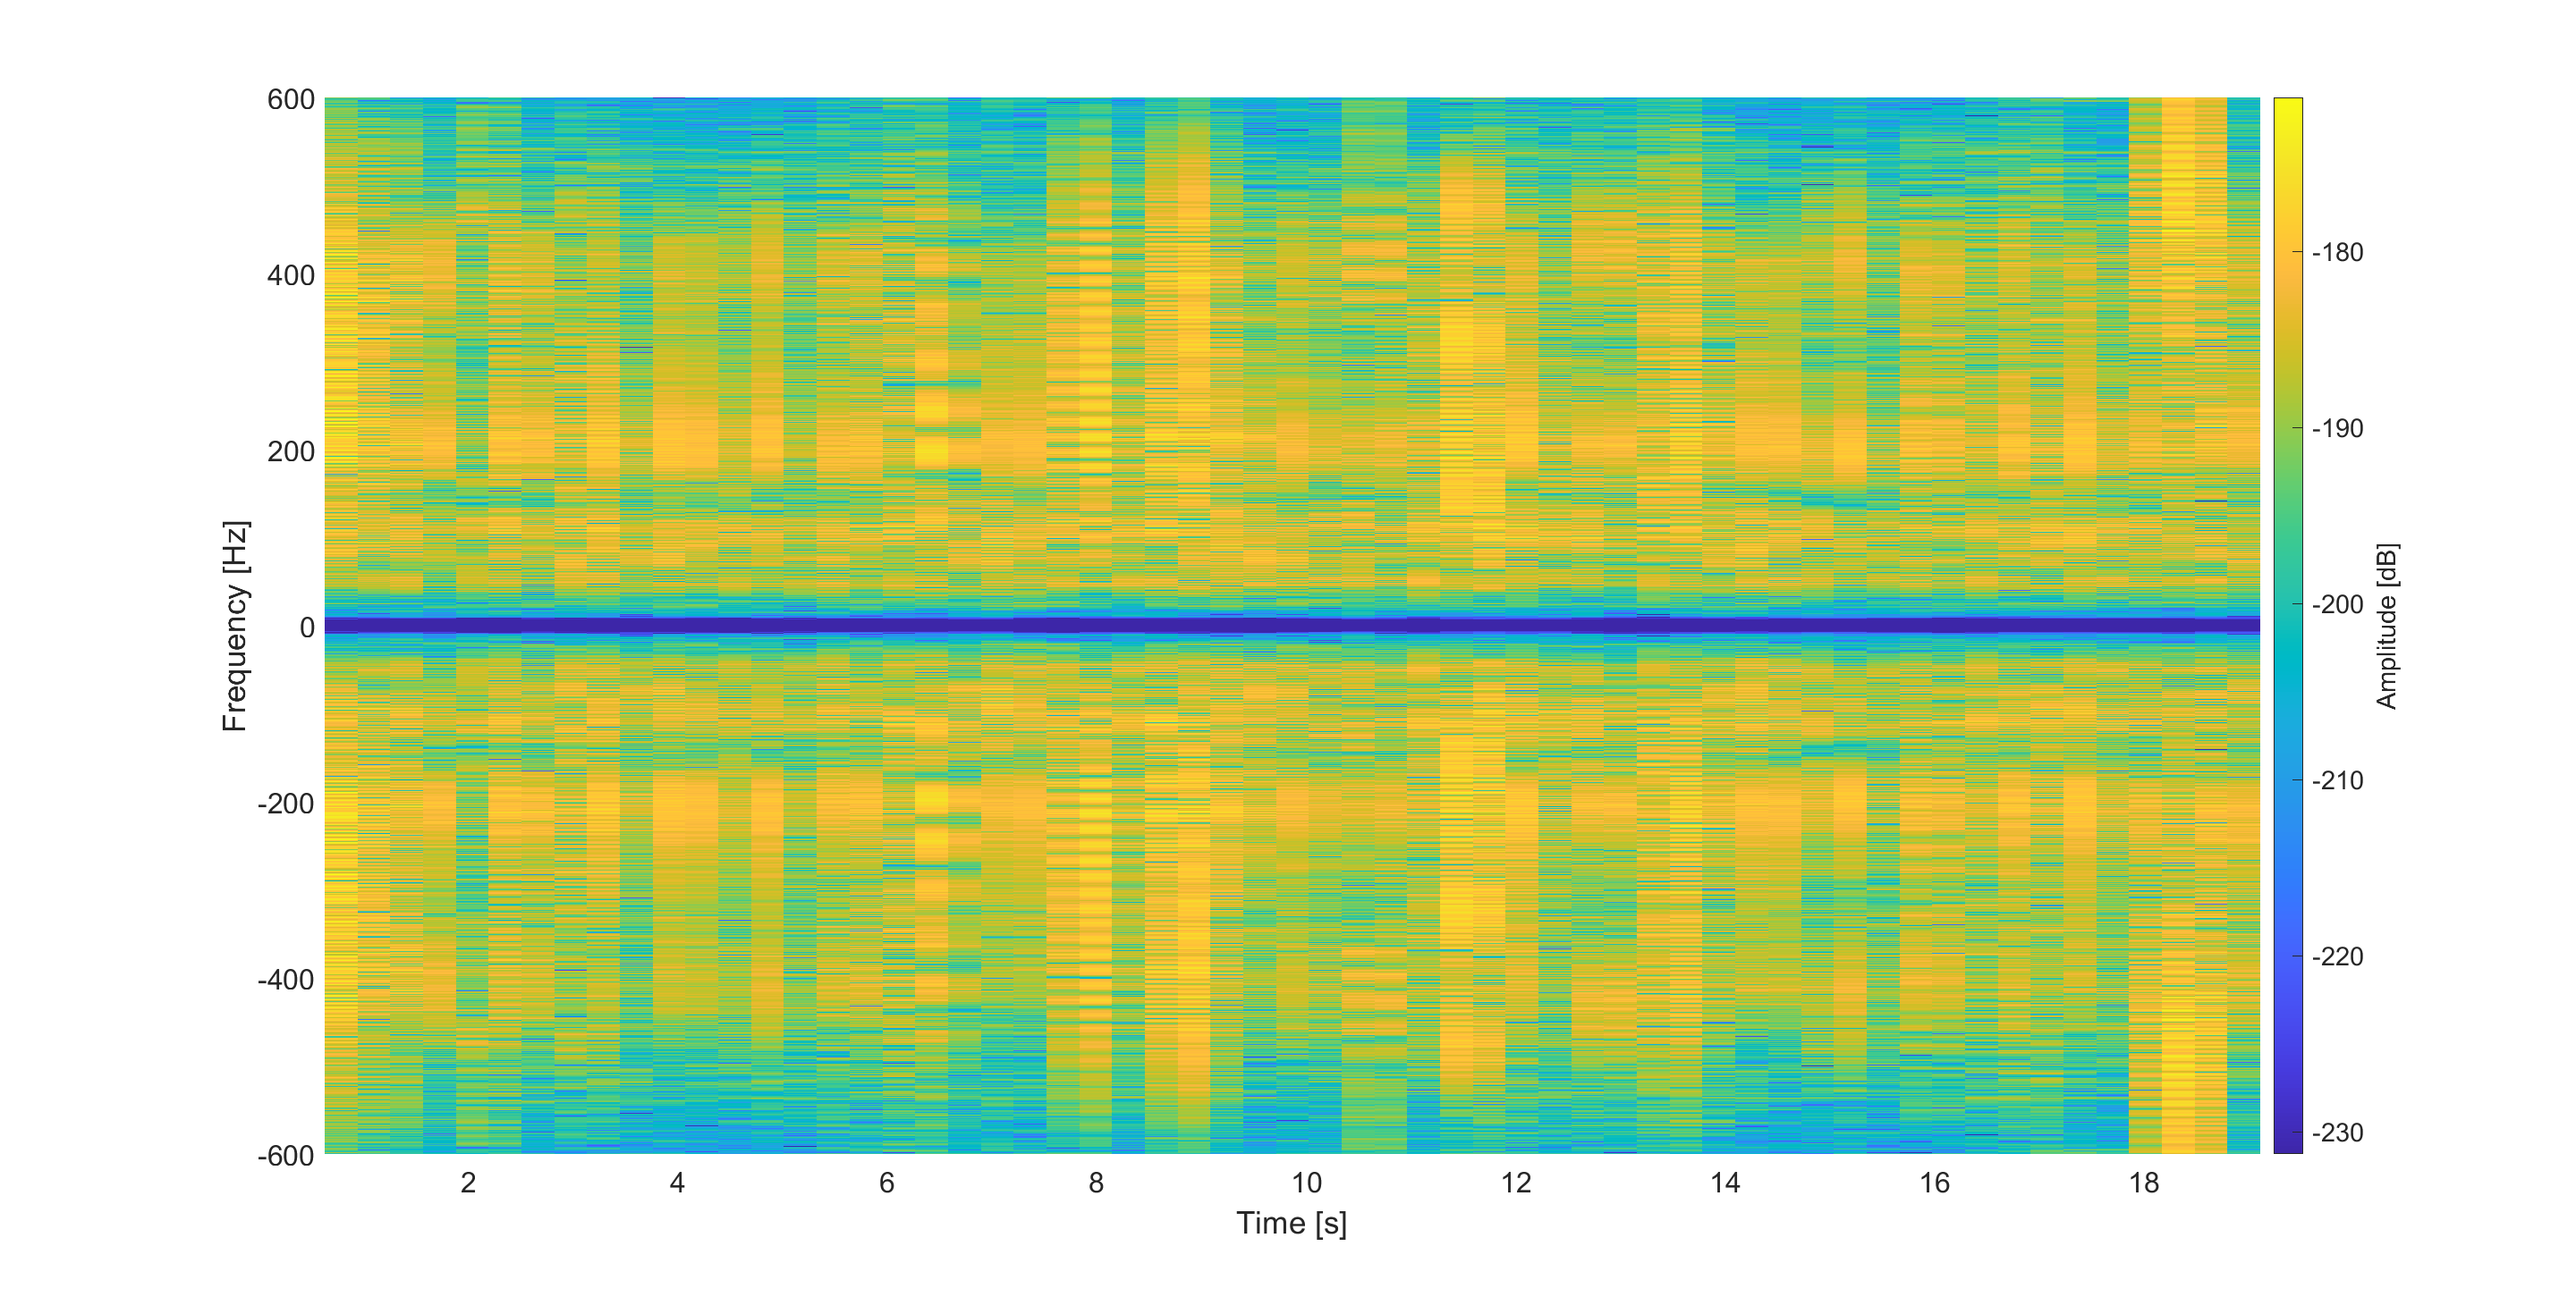
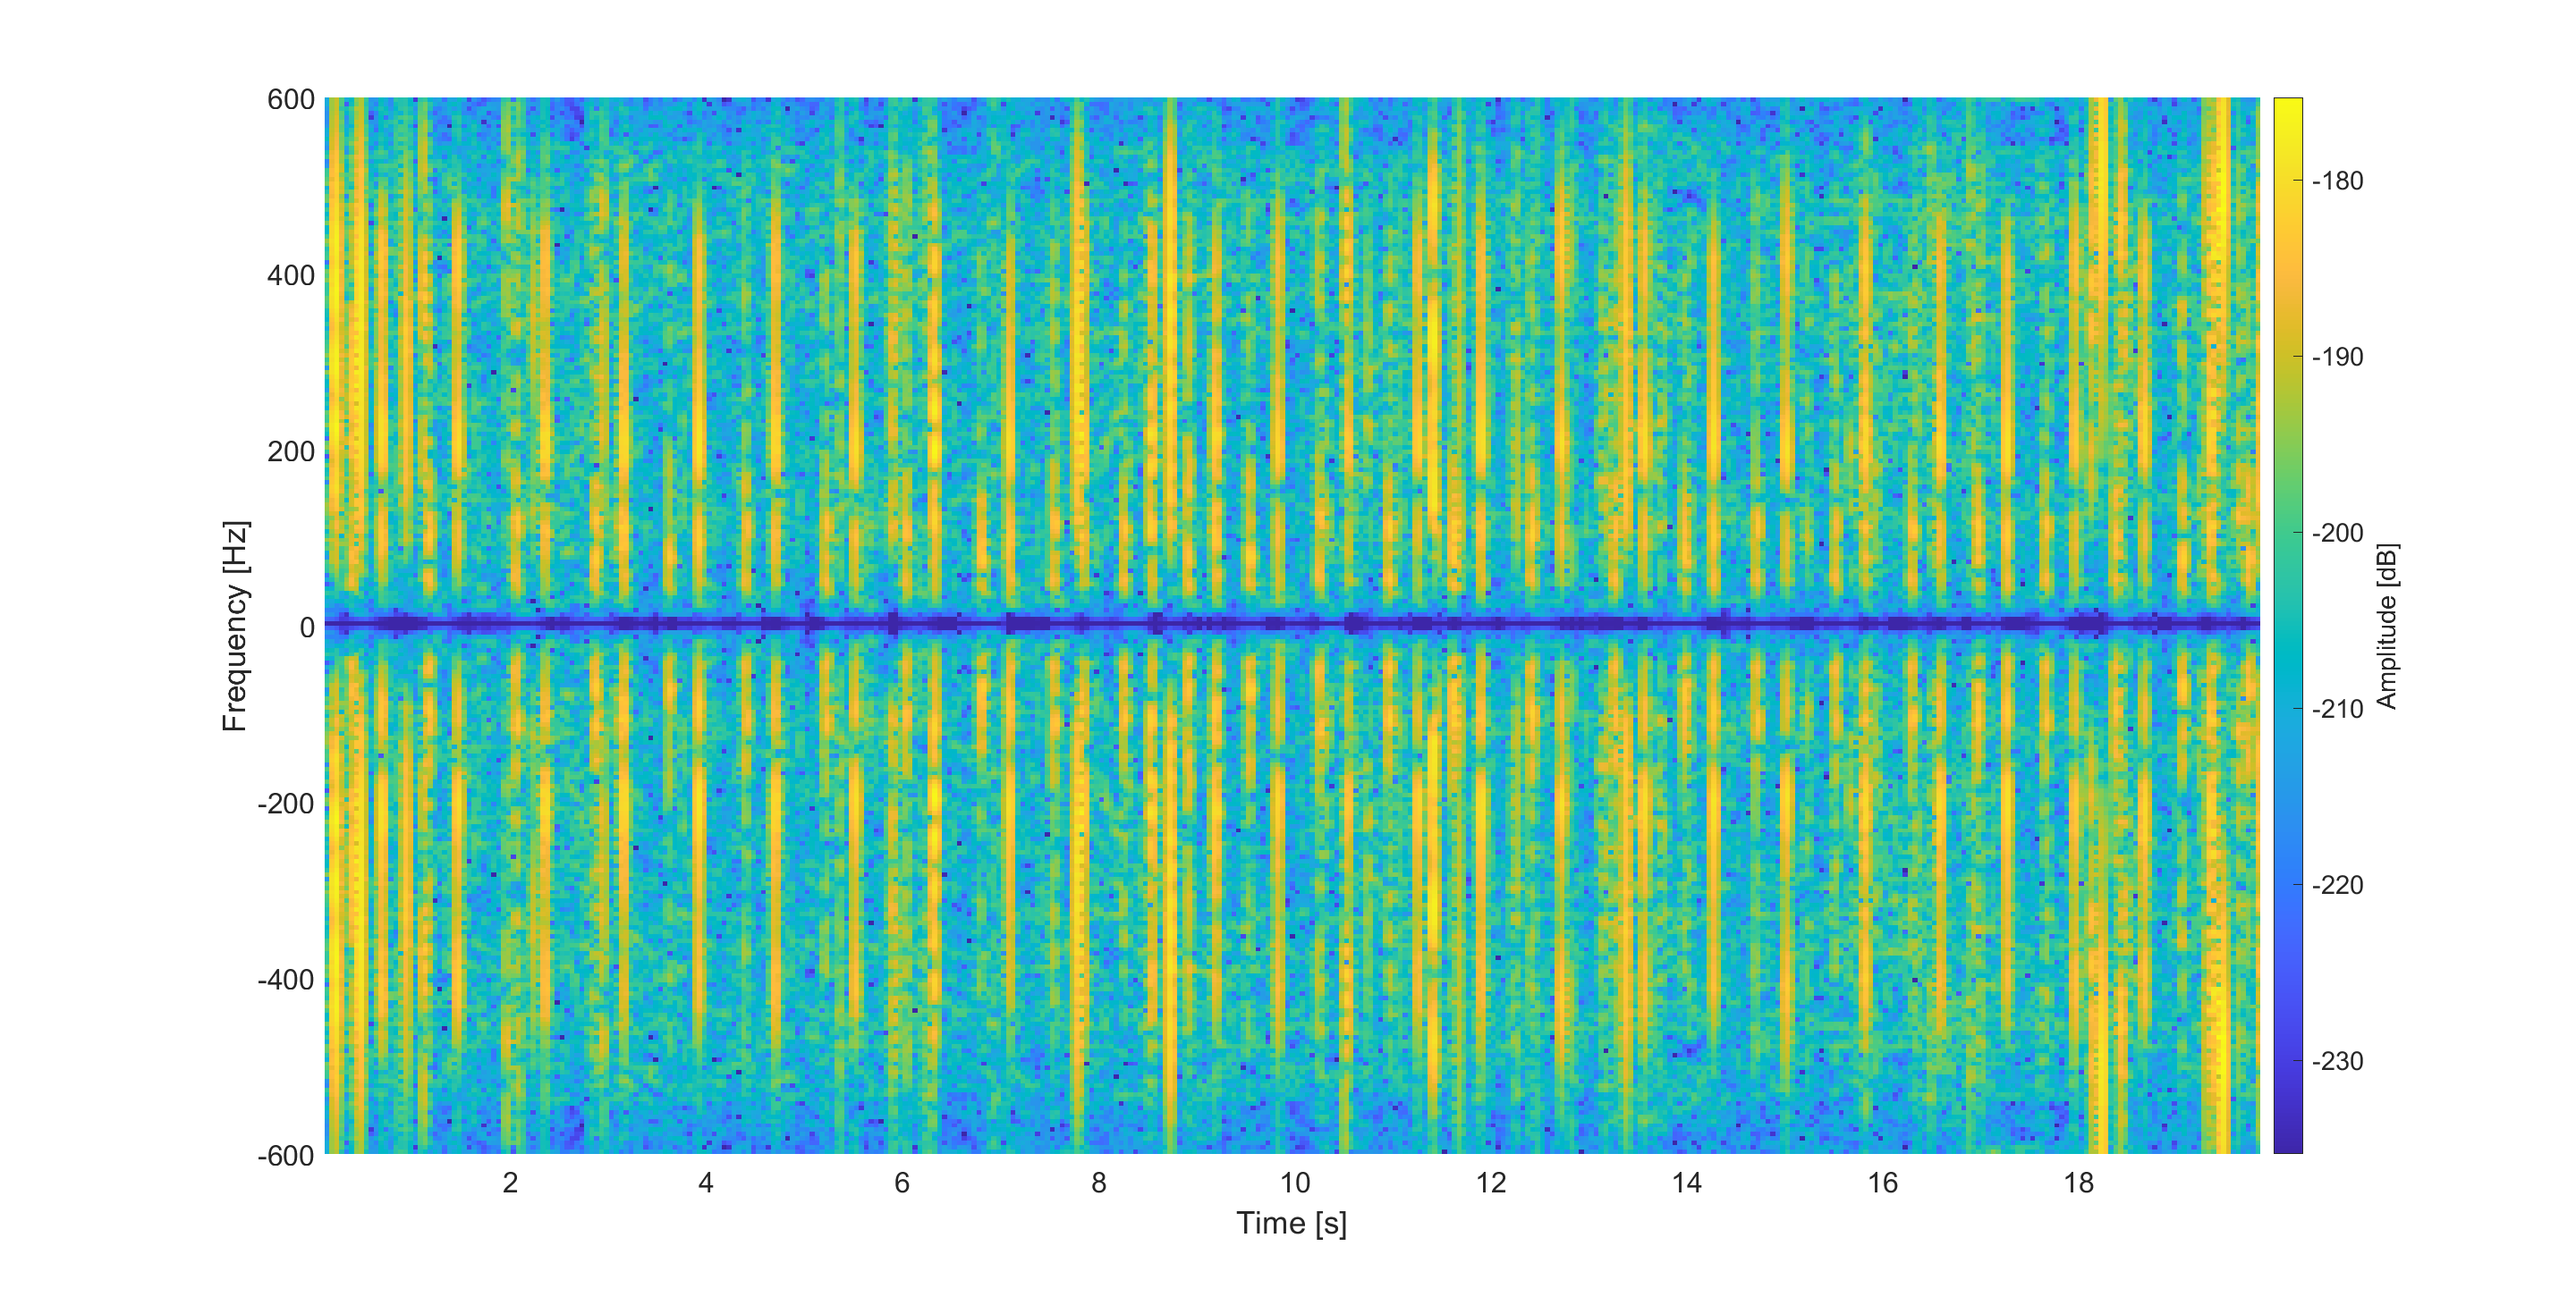
Clear code

diff --git a/myFFT.m b/myFFT.m
@@ -1,16 +1,22 @@
 function [f,P1] = myFFT(A,fs)
-%MYFFT
-%   Normalized onesided FFT
-%   A variable will be transformed
-%   fs is the sampling frequency
+    %MYFFT
+    % Normalized onesided FFT
 
-L = length (A); % Length of A
-Y = fft (A) ; % Compute the FFT
+    % Inputs:
+    % A: this variable will be transformed
+    % fs: Sampling frequency
+    
+    % Outputs:
+    % f: Frequeny axis of the transformed variable
+    % P1: Normalized onesided FFT of the transformed variable
 
-P2 = abs (Y/L ); % Compute the two - sided spectrum
-P1 = P2 (1: L /2+1) ; % Compute the single - sided spectrum
-P1 (2: end -1) = 2* P1 (2: end -1) ; % Compute the single - sided spectrum
-P1 = P1/max(P1); % Normalize
+    L = length (A); % Length of A
+    Y = fft (A) ; % Compute the FFT
 
-f = fs *(0:( L /2) )/L ; % Define the frequency
+    P2 = abs (Y/L ); % Compute the two - sided spectrum
+    P1 = P2 (1: L /2+1) ; % Compute the single - sided spectrum
+    P1 (2: end -1) = 2* P1 (2: end -1) ; % Compute the single - sided spectrum
+    P1 = P1/max(P1); % Normalize
+
+    f = fs *(0:( L /2) )/L ; % Define the frequency
 end

diff --git a/plotter.m b/plotter.m
@@ -8,7 +8,7 @@ sig = audioread(strcat("data/normal/", fileName, ".wav"))';
 tlabels = readtable(strcat("data/normal/", fileName, ".tsv"),"FileType","text","Delimiter","tab");
 
 % fileName = '9979_TV';
-% fileName = '49748_TV';
+% % fileName = '49748_TV';
 % sig = audioread(strcat("data/murmur/", fileName, ".wav"))';
 % tlabels = readtable(strcat("data/murmur/", fileName, ".tsv"),"FileType","text","Delimiter","tab");
 
@@ -39,7 +39,7 @@ fsig = filter(b_high,a_high,fsig);
 
 %% STFT
 % Short-time Fourier transform
-[s,f2_stft,t2] = stft(fsig,fs,'Window',hann(5012));
+[s,f2_stft,t2] = stft(fsig,fs,'Window',hann(800));
 sdb = mag2db(abs(s)); % Amplitude spectrum to dB
 
 %% Envelope using Hilbert transformation
@@ -82,7 +82,7 @@ hold off;
 xlim([t(1) t(end)]);
 xlabel('Time [s]');
 ylabel('Amplitude [a.u.]');
-legend('Signal','Envelope [a.u.]','Hert cycle','S1 and S2', 'S/D regions');
+legend('Signal','Envelope [a.u.]','Labels','S1 and S2', 'S/D regions');
 set(gca,"FontSize",16)
 
 % Plot filtered FFT

diff --git a/getLabels.m b/getLabels.m
@@ -1,16 +1,24 @@
 function [y] = getLabels(tlabels,fs,t_length)
-%GETLABELS 
-% % Get the labels to the signal as an array
+    %GETLABELS 
+    % Get the labels to the signal as an array
+    
+    % Inputs:
+    % tlabels: Labels from the .tsv files as a table
+    % fs: Sampling frequency
+    % t_length: Length of the signal in s
+    
+    % Outputs:
+    % y: Label mask as an array
 
-labels = table2array(tlabels);
-length = t_length*fs; % number of data points
-y = zeros(1,length);
-for i = 1:size(labels,1)
-    t0 = labels(i,1);
-    if t0 == 0 t0 = 1/fs; end
-    t1 = labels(i,2);
-    sound = labels(i,3);
-    y(round(t0*fs):round(t1*fs)) = sound;
-end
+    labels = table2array(tlabels);
+    length = t_length*fs; % number of data points
+    y = zeros(1,length);
+    for i = 1:size(labels,1)
+        t0 = labels(i,1);
+        if t0 == 0 t0 = 1/fs; end
+        t1 = labels(i,2);
+        sound = labels(i,3);
+        y(round(t0*fs):round(t1*fs)) = sound;
+    end
 end
 

diff --git a/getHeartRate.m b/getHeartRate.m
@@ -4,10 +4,18 @@ function [HeartRate] = getHeartRate(envelope,locs,fs)
     %   calculate the heart rate.
     %   We assume that we have all of S1 and S2 sounds, none of them is
     %   missing.
+    
+    % Inputs:
+    % envelope: Envelope of the signal
+    % locs: Localization of the S1 and S2 peaks in the signal
+    % fs: Sampling frequency
+    
+    % Outputs:
+    % HeartRate: Heart rate in bpm
 
     % Cut down the beginning and end, just to get rid of noisy part
-    start_ = round(size(envelope,2)/5);
-    end_ = start_*4;
+    start_ = round(size(envelope,2)/8);
+    end_ = start_*7;
     locs_short = locs(locs>start_); % Peak locations after start_
     locs_short = locs_short(locs_short<end_); % Peak locations between start_ and end_
 
@@ -22,6 +30,5 @@ function [HeartRate] = getHeartRate(envelope,locs,fs)
     % Calculate heart rate in bpm
     HeartRate = (1/tCycle)*fs;
     HeartRate = HeartRate*60;
-
 end
 

diff --git a/murmur3.m b/murmur3.m
@@ -1,6 +1,15 @@
 function pathology = murmur3(sig,fs)
     %MURMUR3
-    %   Detailed explanation goes here
+    %   Classification based on the ratio of power of low and high
+    %   frequencies  on the STFT.
+    
+    % Inputs:
+    % sig: Signal
+    % fs: Sampling frequency
+    
+    % Outputs:
+    % pathology: 0 if nurmal, 1 if murmur
+    
     pathology = 0;
     %% Filtering
     f1 = 400; % Hz
@@ -18,7 +27,7 @@ function pathology = murmur3(sig,fs)
     sdb = mag2db(abs(s)); % Amplitude spectrum to dB
     
     %% Pathology
-    % Check the ratio of power on STFT from 0 to 200 Hz and from 200 to 400
+    % Check the ratio of power on STFT from 0 to 120 Hz and from 120 to 400
     % Hz
     lowfreq = mean(mean(abs(sdb(round(size(sdb,1)/2):round(size(sdb,1)/10*5.3),:))));
     highfreq = mean(mean(abs(sdb(round(size(sdb,1)/10*5.3):round(size(sdb,1)/10*6),:))));

diff --git a/project_run.m b/project_run.m
@@ -10,8 +10,8 @@ function properties = project_run(sig)
     %% fs and t
     sig = sig';
     fs = 4000; % Hz
-    t_length = length(sig)/fs; % s
-    t = linspace(0, t_length, t_length*fs); % s
+%     t_length = length(sig)/fs; % s
+%     t = linspace(0, t_length, t_length*fs); % s
     
     %% Filtering
     f1 = 500; % Hz
